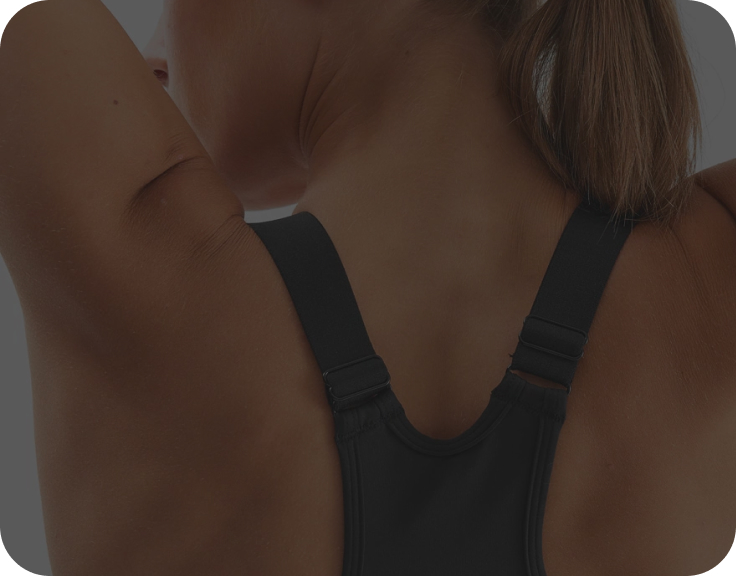
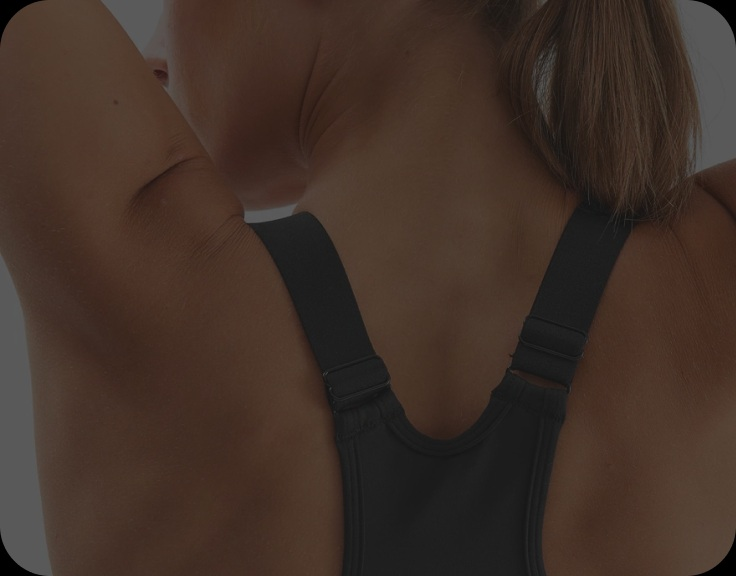
added images for retina

diff --git a/src/css/footer.css b/src/css/footer.css
@@ -6,7 +6,7 @@
   padding: 40px 20px 20px;
   box-sizing: border-box;
   border-radius: 30px;
-  background-image: url(../images/footer/footer-background-mobile.jpg);
+  background-image: url('../images/footer/footer-background.jpg');
   background-size: cover;
   background-position-x: center;
 }
@@ -174,7 +174,7 @@
     min-width: 736px;
     height: 576px;
     padding: 64px 48px 32px;
-    background-image: url(../images/footer/footer-background-tablet.jpg);
+    background-image: url("../images/footer/footer-background-tablet.jpg");
     background-size: cover;
     background-position-y: center;
     border-radius: 50px;
@@ -257,7 +257,7 @@
     width: auto;
     height: 454px;
     padding: 64px 48px 26px;
-    background-image: url(../images/footer/footer-background-desktop.jpg);
+    background-image: url("../images/footer/footer-background-desktop.jpg");
   }
 
   .footer-slogan {
@@ -299,5 +299,21 @@
     font-size: 14px;
     line-height: 18px;
     letter-spacing: -0.28px;
+  }
+}
+
+@media (min-resolution: 192dpi) {
+  .footer-container {
+    background-image: url('../images/footer/footer-background@2.jpg');
+  }
+  @media screen and (min-width: 736px) {
+    .footer-container {
+      background-image: url('../images/footer/footer-background-tablet@2.jpg');
+    }
+  }
+  @media screen and (min-width: 1280px) {
+    .footer-container {
+      background-image: url('../images/footer/footer-background-desktop@2.jpg');
+    }
   }
 }
